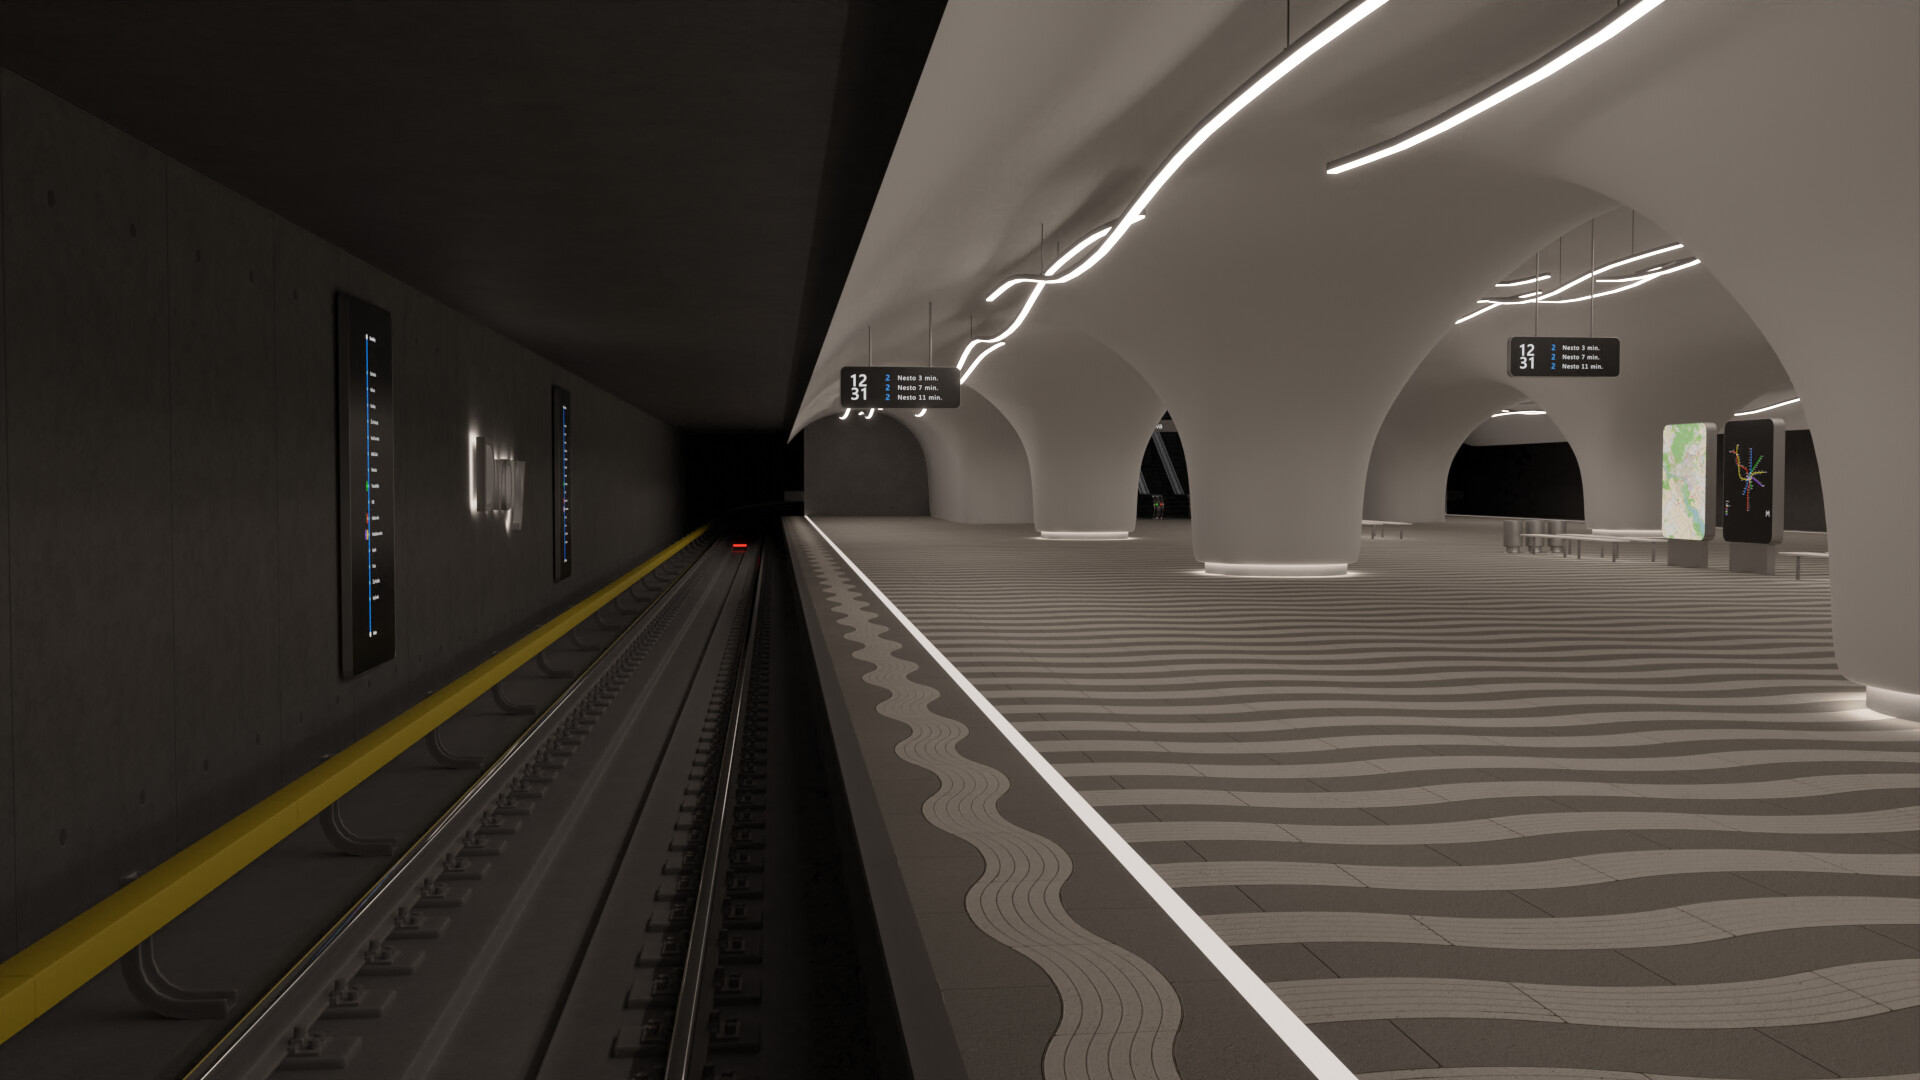
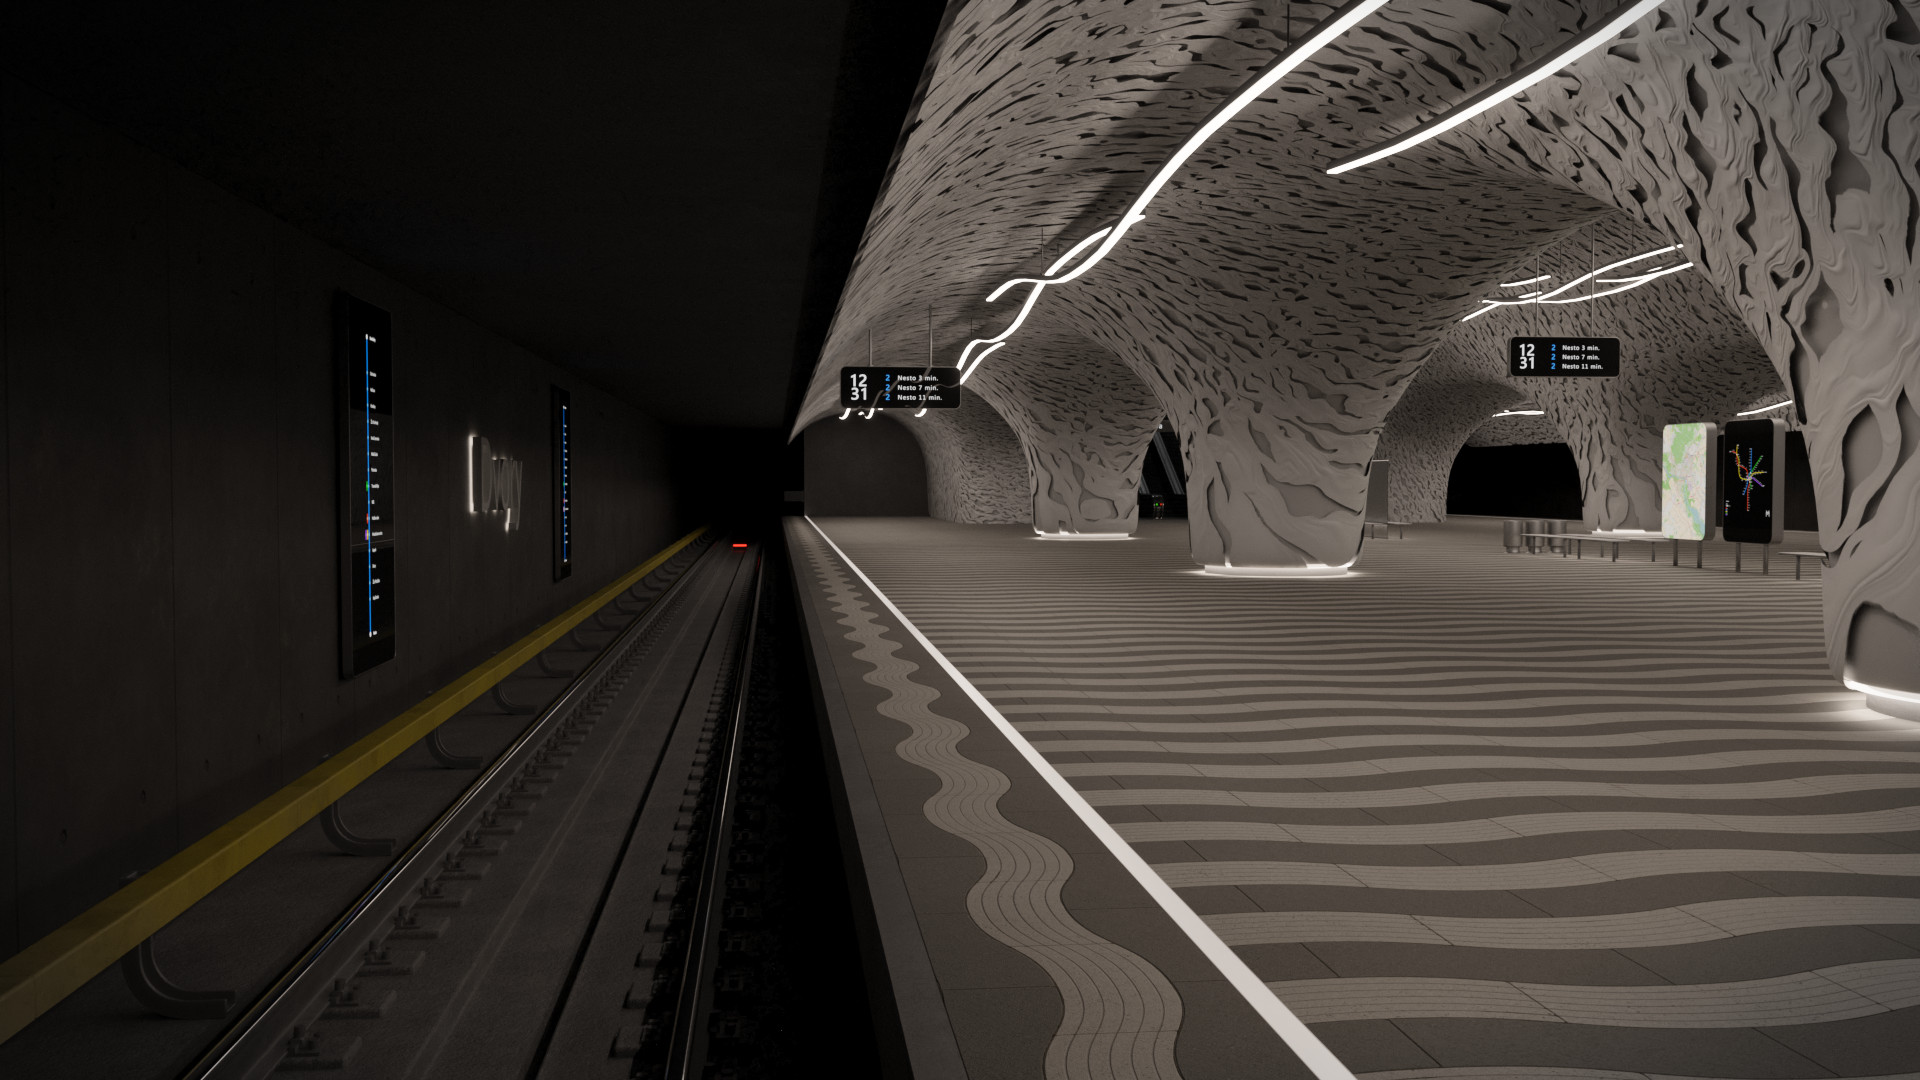
updated metro station

diff --git a/jslangadata/langdata_metrostation.js b/jslangadata/langdata_metrostation.js
@@ -8,8 +8,7 @@ if(currentlang == "EN") {
     in an archviz style.
     <div style="height: 12px;"></div>
     Everything was modeled in Cinema 4D and texured/rendered in Blender. All of the materials are my own except the floor, which comes from AmbientCG.
-    <div style="height: 12px;"></div>
-    In the future I would like to rework this project a bit to give it a new look.`
+    `
     document.getElementById("langs-metrostation-softewaretitle").innerHTML = `Software used`
 } else if(currentlang == "SK") {
     document.getElementById("langs-metrostation-time").innerHTML = `Od Februára do Júna 2022`
@@ -20,8 +19,7 @@ if(currentlang == "EN") {
     Toto je jeden z prvých 3D projektov, ktorý sa mi podarilo dokončiť. Ide o novú stanicu hypotetického metra v Bratislave v archviz štýle.
     <div style="height: 12px;"></div>
     Všetko bolo modelované v programe Cinema 4D a zvizualizované v Blenderi. Všetky textúry sú moje vlastné, okrem dlažby, ktorá pochádza zo stránky AmbientCG.
-    <div style="height: 12px;"></div>
-    V budúcnosti by som rád tento projekt prerobil a dal mu nový, lepší vzhľad.`
+    `
     document.getElementById("langs-metrostation-softewaretitle").innerHTML = `Použitý software`
 } else if(currentlang == "CZ") {
     document.getElementById("langs-metrostation-time").innerHTML = `Od Února do Června 2022`
@@ -32,8 +30,7 @@ if(currentlang == "EN") {
     Toto je jeden z prvních 3D projektů, který se mi podařilo dokončit. Jedná se o novou hypotetickou stanici metra v Bratislavě ve archviz stylu.
     <div style="height: 12px;"></div>
     Vše bylo vymodelováno v Cinemě 4D a vizualizováno v Blenderu. Všechny textury jsou mé vlastní, kromě dlažby, která pochází z webu AmbientCG.
-    <div style="height: 12px;"></div>
-    V budoucnu bych chtěl tento projekt přepracovat a dát mu nový, lepší vzhled.`
+    `
     document.getElementById("langs-metrostation-softewaretitle").innerHTML = `Použitý software`
 }
 
@@ -50,8 +47,7 @@ function langizemetrostation() {
         in an archviz style.
         <div style="height: 12px;"></div>
         Everything was modeled in Cinema 4D and texured/rendered in Blender. All of the materials are my own except the floor, which comes from AmbientCG.
-        <div style="height: 12px;"></div>
-        In the future I would like to rework this project a bit to give it a new look.`
+        `
         document.getElementById("langs-metrostation-softewaretitle").innerHTML = `Software used`
     } else if(currentlang == "SK") {
         document.getElementById("langs-metrostation-time").innerHTML = `Od Februára do Júna 2022`
@@ -62,8 +58,7 @@ function langizemetrostation() {
         Toto je jeden z prvých 3D projektov, ktorý sa mi podarilo dokončiť. Ide o novú stanicu hypotetického metra v Bratislave v archviz štýle.
         <div style="height: 12px;"></div>
         Všetko bolo modelované v programe Cinema 4D a zvizualizované v Blenderi. Všetky textúry sú moje vlastné, okrem dlažby, ktorá pochádza zo stránky AmbientCG.
-        <div style="height: 12px;"></div>
-        V budúcnosti by som rád tento projekt prerobil a dal mu nový, lepší vzhľad.`
+        `
         document.getElementById("langs-metrostation-softewaretitle").innerHTML = `Použitý software`
     } else if(currentlang == "CZ") {
         document.getElementById("langs-metrostation-time").innerHTML = `Od Února do Června 2022`
@@ -74,8 +69,7 @@ function langizemetrostation() {
         Toto je jeden z prvních 3D projektů, který se mi podařilo dokončit. Jedná se o novou hypotetickou stanici metra v Bratislavě ve archviz stylu.
         <div style="height: 12px;"></div>
         Vše bylo vymodelováno v Cinemě 4D a vizualizováno v Blenderu. Všechny textury jsou mé vlastní, kromě dlažby, která pochází z webu AmbientCG.
-        <div style="height: 12px;"></div>
-        V budoucnu bych chtěl tento projekt přepracovat a dát mu nový, lepší vzhled.`
+        `
         document.getElementById("langs-metrostation-softewaretitle").innerHTML = `Použitý software`
     }
 }
